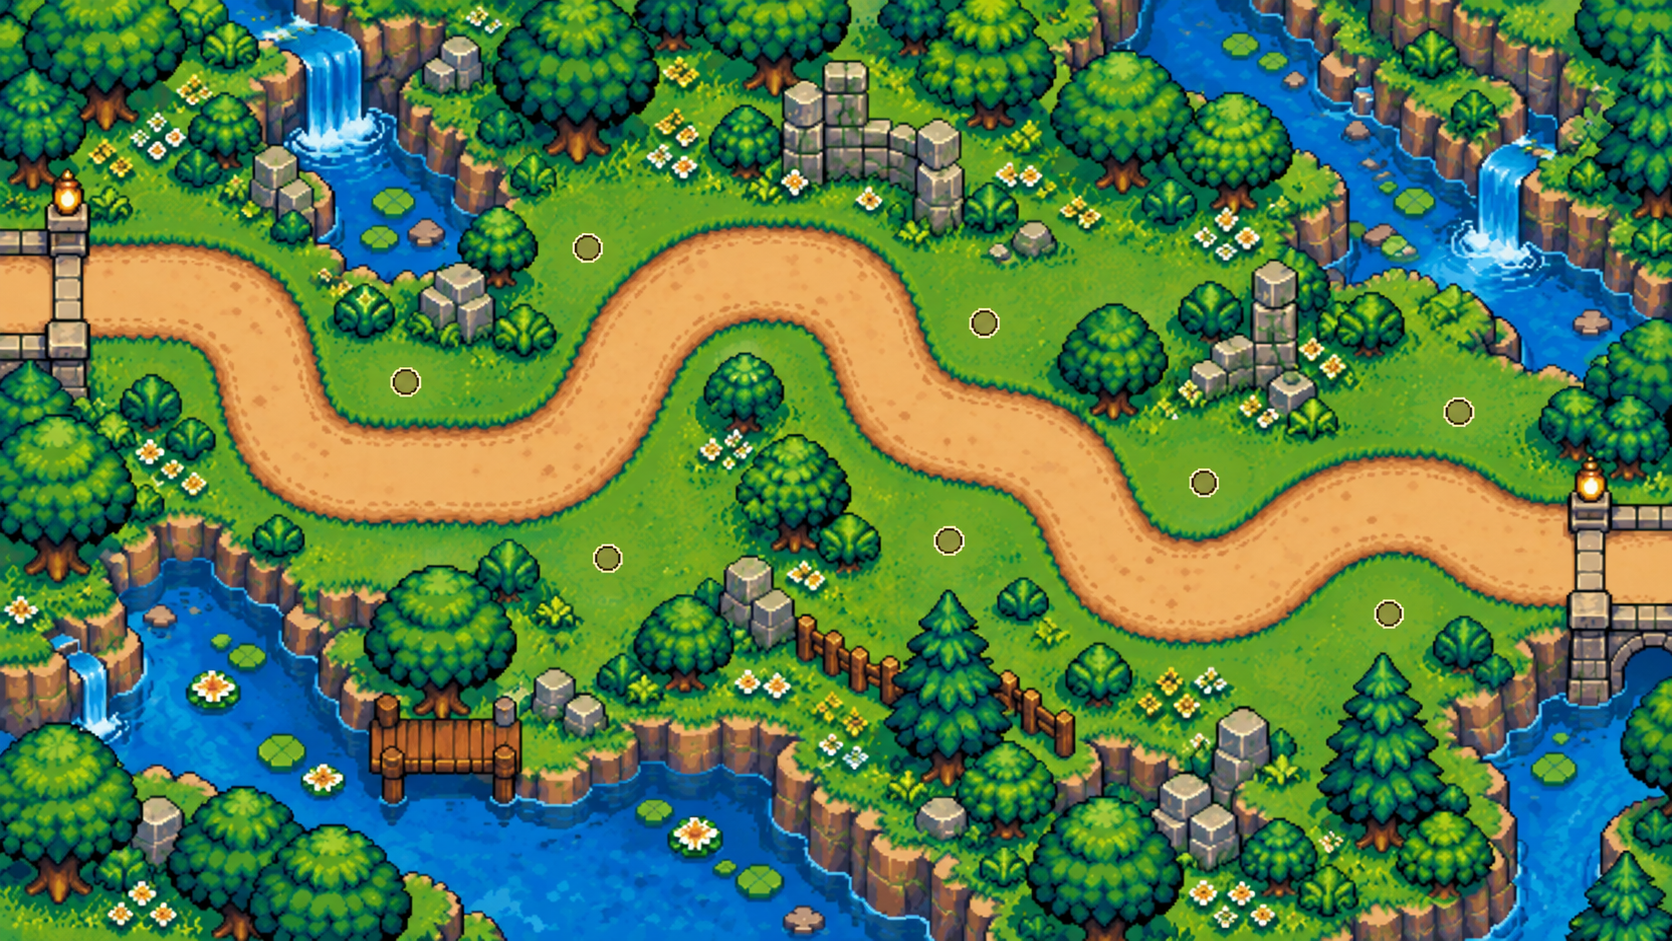
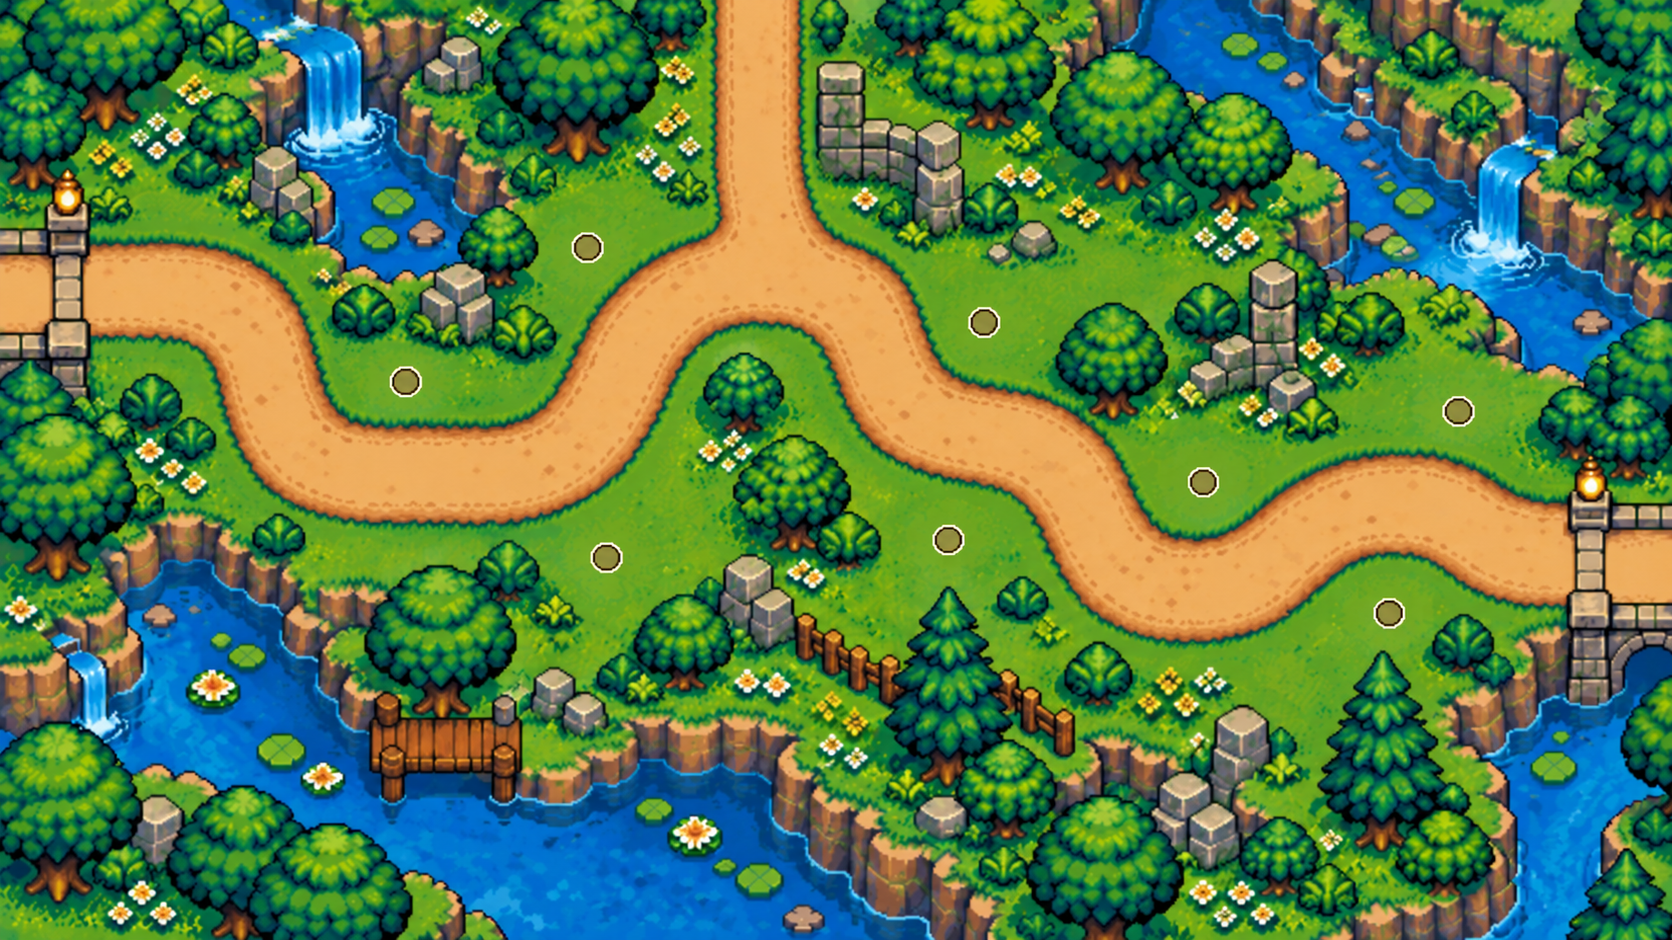
v0.028: Map 2 top entrance and revised route scheduling

diff --git a/VERIFISERING-v0.028.md b/VERIFISERING-v0.028.md
@@ -1,0 +1,11 @@
+# v0.028 – Bane 2 med Left Path og Top Path
+
+- Kartvedlegget kopiert direkte til assets/map2.png uten bildeendringer.
+- Åtte eksisterende sirkelposisjoner og blocker-layout/kostnader beholdt; markeringene har samme koordinater i det nye kartet.
+- Ny TopPath starter ved x760 over bildekanten. Begge rutene deler nøyaktig samme kurvesegmenter fra (768,279) til utgangen.
+- Waves 1/5 bruker Left; 3/6/9 bruker Top; øvrige alternerer mellom begge. Wave12 har tre puljer med pause etter spawn12 og24. Eksisterende antall, fiendetyper, intervaller og økonomi beholdt. Ingen piloter.
+- Varselnavn LEFT PATH/TOP PATH og faktiske planlagte elevantall. Informasjonsbanner flyttet til høyre for å holde Top-varselet synlig.
+- Nye tester kontrollerer innganger for alle12waves, samme utgang/felles kurvesegmenter, kortere TopPath, og Snack som spiser og fortsetter på samme rute.
+- test_map2_integration: normalbudsjettstrategi vinner12waves med8Reputation, alleelever regnskapsføres, ingen tårn taper som forventet.
+- test_v003, test_v026, test_v027, test_waterfall, test_blocked_sites og test_snack_combat består.
+- Native rutekart kontrollert visuelt med midlertidige kurvelinjer; debuglinjer inngår ikke i spillet.

diff --git a/README.md b/README.md
@@ -4,7 +4,7 @@
 
 # Academic Defence
 
-Latest version: **0.027.1** — Static idle road warnings with golden hover and six enemy mini-icons.
+Latest version: **0.028** — Map 2 Left/Top entrances with exact wave warnings.
 
 A pixel-art tower defence game made in **Godot 4.4.1**. Teach students before they reach the bridge: ground students graduate at 100 Knowledge (Paper Plane Pilots require 150). This repository contains the existing project developed in this chat.
 
